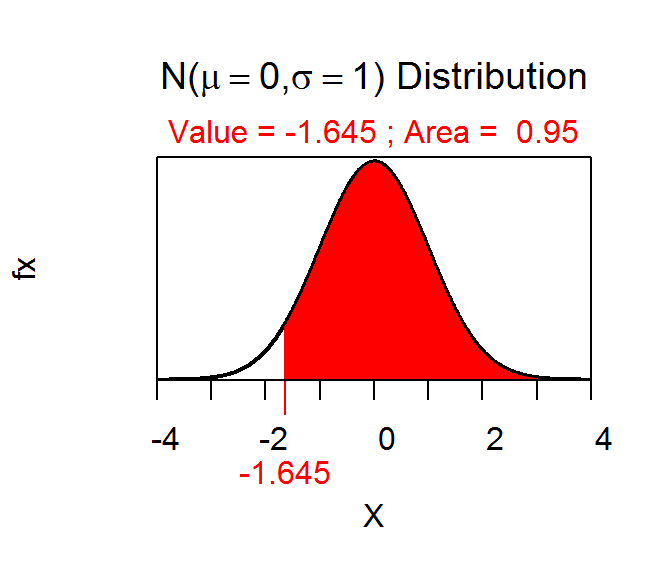
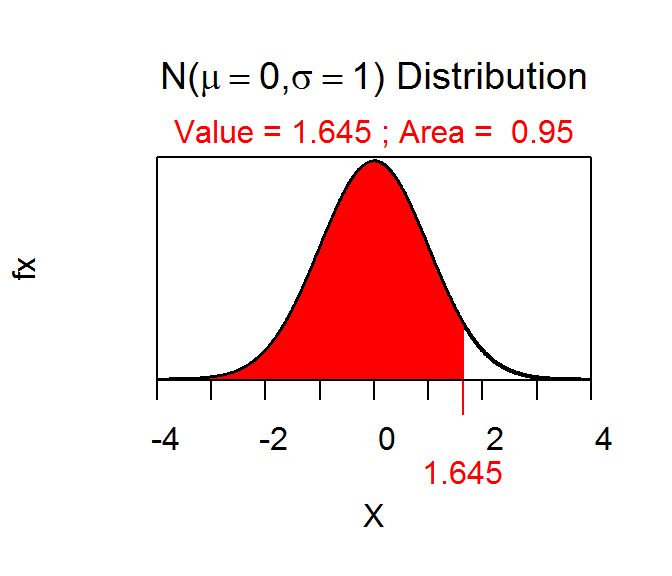
Fixed ConfRegion RevEx Key

diff --git a/modules/RE/zRevExAns/ConfRegions.html b/modules/RE/zRevExAns/ConfRegions.html
@@ -7,13 +7,17 @@ css: "/css/modules.css"
 ---
 
 
+<pre><code>## Loading required package: FSA</code></pre>
+<pre><code>## ## FSA v0.8.18. See citation(&#39;FSA&#39;) if used in publication.
+## ## Run fishR() for related website and fishR(&#39;IFAR&#39;) for related book.</code></pre>
+<pre><code>## ## NCStats v0.4.6 by Derek H. Ogle, Northland College.</code></pre>
 <hr />
 <div id="bod-in-effluent" class="section level2">
 <h2>BOD in Effluent</h2>
 <ol>
 <li>90% (=100(1-0.10))</li>
-<li>Lower confidence bound (because <span class="math inline">\(H_{A}\)</span> is “greater than”).</li>
-<li><span class="math inline">\(Z^{*}\)</span>=-1.282</li>
+<li>Lower confidence bound (because H<sub>A</sub> is “greater than”).</li>
+<li>Z<sup>*</sup>=-1.282</li>
 <li>2504-1.282<span class="math inline">\(\frac{1200}{\sqrt(118)}\)</span> = 2362.</li>
 <li>I am 90% confident that the population mean BOD is greater than 2362. By confident I mean that 90% of all 90% confidence regions will contain the true population mean.</li>
 </ol>
@@ -28,15 +32,15 @@ zstar &lt;- distrib(0.90,type=&quot;q&quot;,lower.tail=FALSE)</code></pre>
 <h2>Medical School Admissions</h2>
 <ol>
 <li>95% (=100(1-0.05))</li>
-<li>Upper confidence bound (because <span class="math inline">\(H_{A}\)</span> is “less than”).</li>
-<li><span class="math inline">\(Z^{*}\)</span>=-1.645</li>
-<li>3.60+-1.645<span class="math inline">\(\frac{0.35}{\sqrt(40)}\)</span> = 3.51.</li>
-<li>I am 95% confident that the population mean GPA is less than 3.51. By confident I mean that 95% of all 95% confidence regions will contain the true population mean.</li>
+<li>Upper confidence bound (because H<sub>A</sub> is “less than”).</li>
+<li>Z<sup>*</sup>=1.645</li>
+<li>3.60+1.645<span class="math inline">\(\frac{0.35}{\sqrt(40)}\)</span> = 3.69.</li>
+<li>I am 95% confident that the population mean GPA is less than 3.69. By confident I mean that 95% of all 95% confidence regions will contain the true population mean.</li>
 </ol>
 <div id="r-appendix-1" class="section level3">
 <h3>R Appendix</h3>
 <pre class="r"><code>library(NCStats)
-zstar &lt;- distrib(0.95,type=&quot;q&quot;,lower.tail=FALSE)</code></pre>
+zstar &lt;- distrib(0.95,type=&quot;q&quot;)</code></pre>
 <hr />
 </div>
 </div>
@@ -45,8 +49,8 @@ zstar &lt;- distrib(0.95,type=&quot;q&quot;,lower.tail=FALSE)</code></pre>
 <ol>
 <li>99%</li>
 <li>Confidence interval.</li>
-<li><span class="math inline">\(Z^{*}\)</span>=2.576</li>
-<li>44.61 <span class="math inline">\(\pm\)</span> 2.576 <span class="math inline">\(\frac{15}{\sqrt(15)}\)</span> = (34.63,54.58).</li>
+<li>Z<sup>*</sup>=2.576</li>
+<li>44.61 ± 2.576 <span class="math inline">\(\frac{15}{\sqrt(15)}\)</span> = (34.63,54.58).</li>
 <li>I am 95% confident that the population mean snowpack depth is between 34.63 and 54.58 cm. By confident I mean that 99% of all 99% confidence regions will contain the true population mean.</li>
 </ol>
 <div id="r-appendix-2" class="section level3">
@@ -62,8 +66,8 @@ zstar &lt;- distrib(0.995,type=&quot;q&quot;)</code></pre>
 <h2>Creatine Phosphate Concentrations</h2>
 <ol>
 <li>95% (=100(1-0.05)).</li>
-<li>Lower confidence bound (because <span class="math inline">\(H_{A}\)</span> is a “greater than”).</li>
-<li><span class="math inline">\(Z^{*}\)</span>=-1.645.</li>
+<li>Lower confidence bound (because H<sub>A</sub> is a “greater than”).</li>
+<li>Z<sup>*</sup>=-1.645.</li>
 <li>98.3-1.645<span class="math inline">\(\frac{40}{\sqrt(36)}\)</span> = 87.3.</li>
 <li>I am 95% confident that the population mean creatine phosphate concentration is greater than 87.3. By confident I mean that 95% of all 95% confidence regions will contain the true population mean.</li>
 </ol>
@@ -80,9 +84,9 @@ zstar &lt;- distrib(0.95,type=&quot;q&quot;,lower.tail=FALSE)</code></pre>
 <h2>Brule River Gauge Heights</h2>
 <ol>
 <li>95% (=100(1-0.05)).</li>
-<li>Confidence interval (because <span class="math inline">\(H_{A}\)</span> is a “not equals”).</li>
-<li><span class="math inline">\(Z^{*}\)</span>= <span class="math inline">\(\pm\)</span> 1.960.</li>
-<li>1.73 <span class="math inline">\(\pm\)</span> 1.960<span class="math inline">\(\frac{0.2}{\sqrt(16)}\)</span> = (1.63,1.82).</li>
+<li>Confidence interval (because H<sub>A</sub> is a “not equals”).</li>
+<li>Z<sup>*</sup>= ± 1.960.</li>
+<li>1.73 ± 1.960<span class="math inline">\(\frac{0.2}{\sqrt(16)}\)</span> = (1.63,1.82).</li>
 <li>I am 95% confident that the population mean gauge height is between 1.63 and 1.82 feet. By confident I mean that 95% of all 95% confidence regions will contain the true population mean.</li>
 </ol>
 <div id="r-appendix-4" class="section level3">
@@ -98,8 +102,8 @@ zstar &lt;- distrib(0.975,type=&quot;q&quot;)</code></pre>
 <h2>Population Density in Wisconsin Counties</h2>
 <ol>
 <li>90% (=100(1-0.10)).</li>
-<li>Upper confidence bound (because <span class="math inline">\(H_{A}\)</span> is a “less than”).</li>
-<li><span class="math inline">\(Z^{*}\)</span>=1.282.</li>
+<li>Upper confidence bound (because H<sub>A</sub> is a “less than”).</li>
+<li>Z<sup>*</sup>=1.282.</li>
 <li>92.9+1.282<span class="math inline">\(\frac{125}{\sqrt(15)}\)</span> = 134.2.</li>
 <li>I am 90% confident that the population mean density of people per county in Wisconsin is less than 134.2. By confident I mean that 90% of all 90% confidence regions will contain the true population mean.</li>
 </ol>
